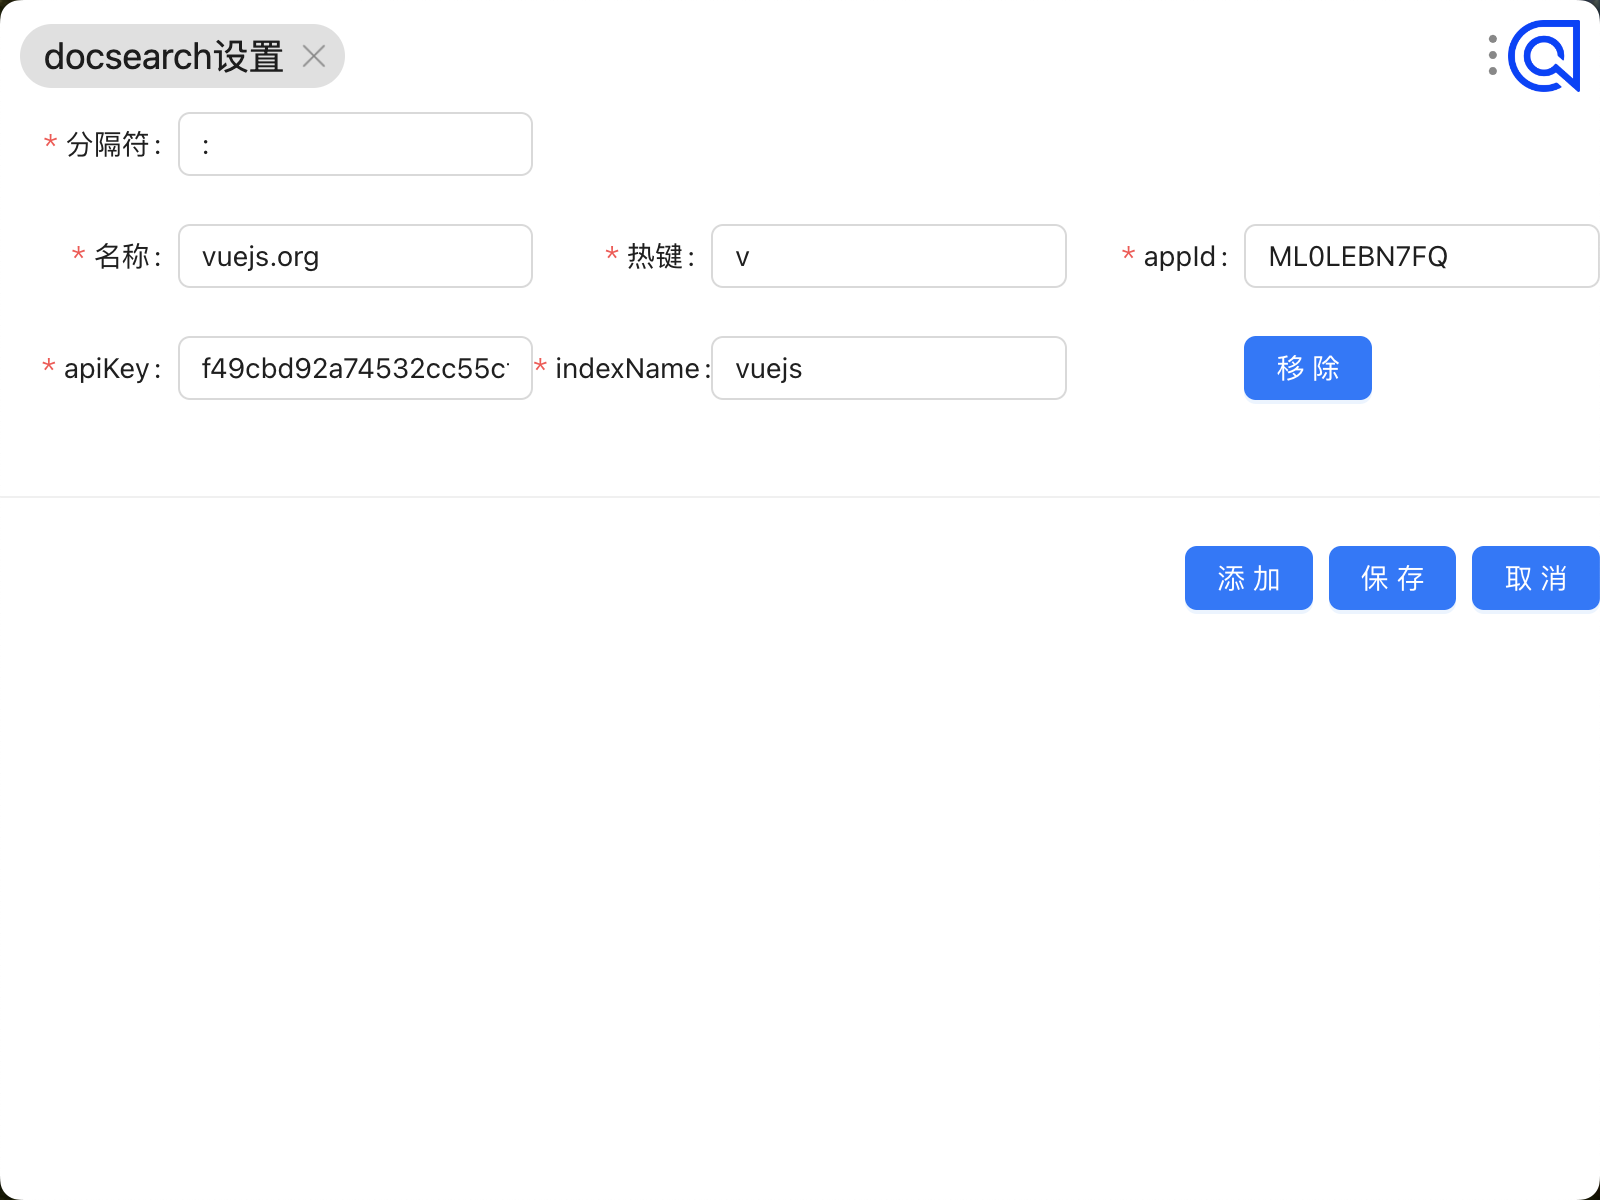
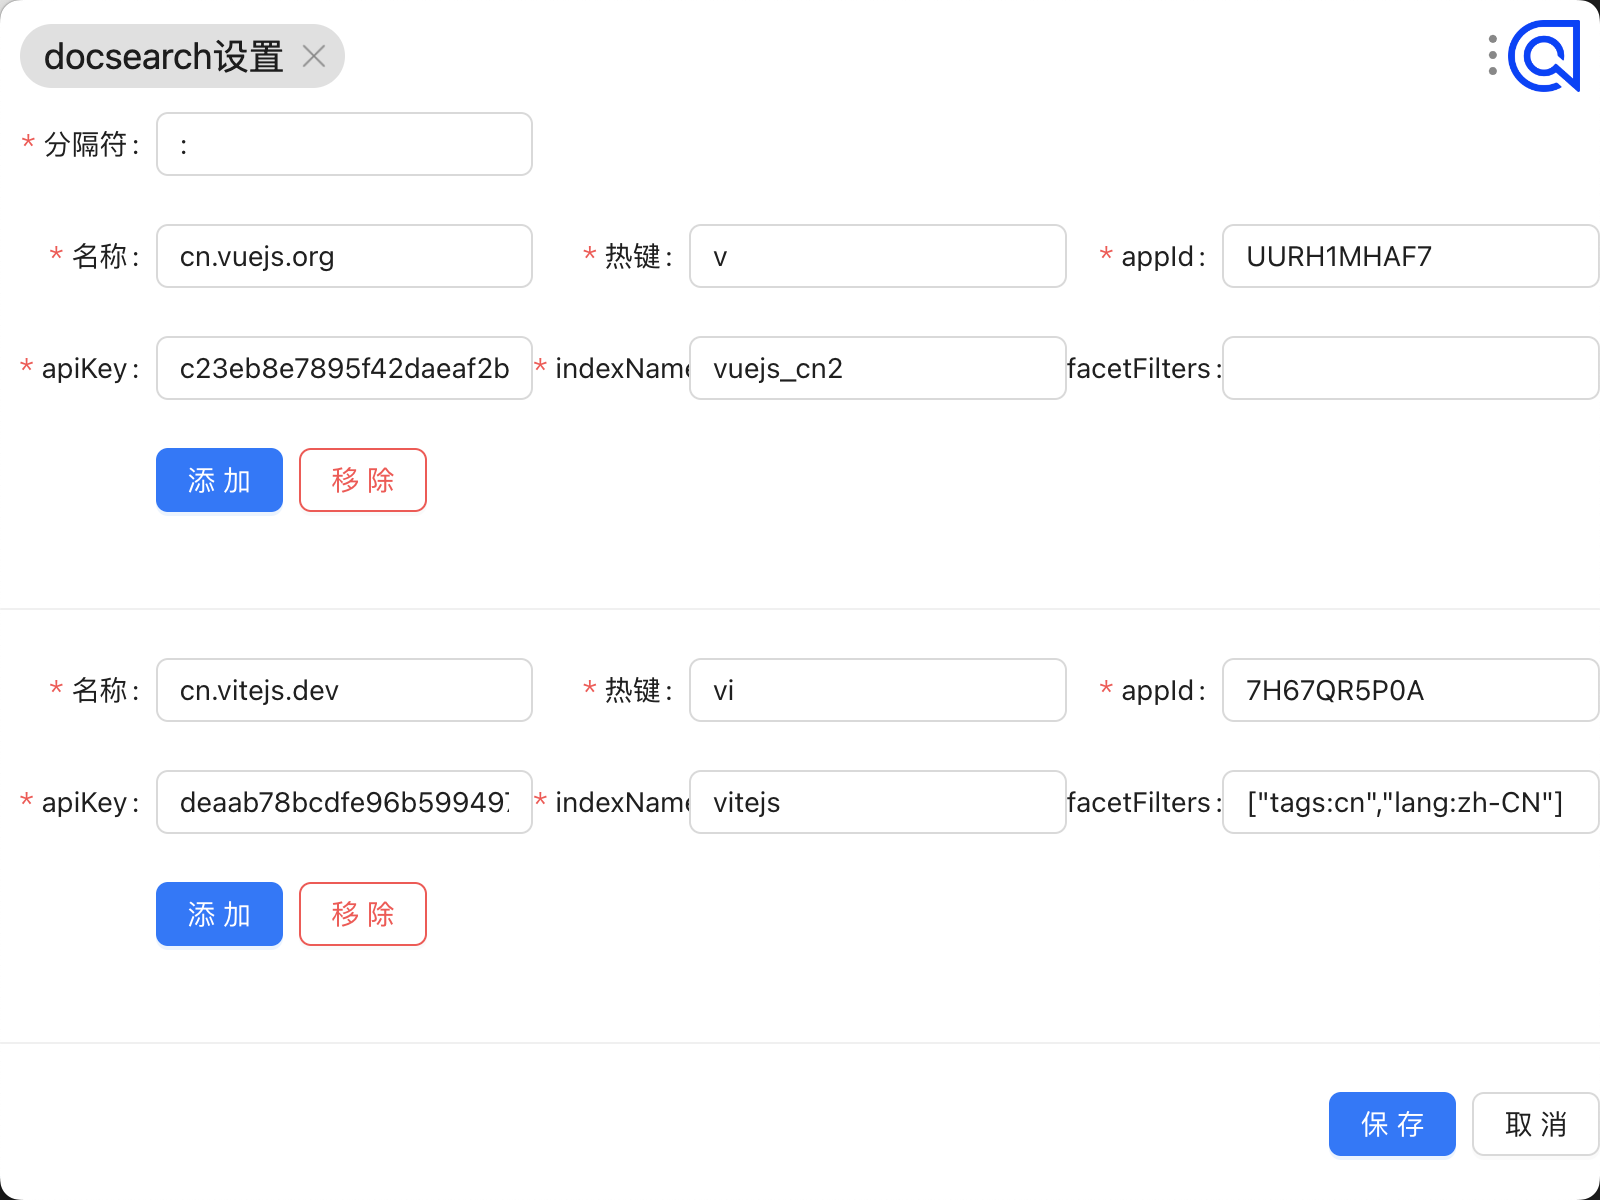
feat: 增加faceFilter功能

diff --git a/src/Setting.js b/src/Setting.js
@@ -3,6 +3,7 @@
 import { Input, Form, Button, Col, Row, Divider, Space, Tooltip, message } from 'antd';
 import { useState, useEffect, } from 'react';
 const text = '唤起搜索的关键词，如热键配置【v】分隔符【:】则utools输入【v:】唤起搜索';
+const faceFilterTooptip = 'docsearch的facetFilters参数，JSON格式，如：["tags:cn","lang:zh-CN"]';
 
 function Setting() {
 
@@ -25,6 +26,17 @@ function Setting() {
 
   const rules = [{ required: true, }];
 
+  const faceFiltersRule = [{
+    required: false, validator(rule, value) {
+      try {
+        JSON.parse(value)
+      } catch (error) {
+        return Promise.reject('JSON格式错误')
+      }
+      return Promise.resolve()
+    }
+  }];
+
   const validateMessages = {
     // eslint-disable-next-line no-template-curly-in-string
     required: '${label}必填!',
@@ -46,6 +58,9 @@ function Setting() {
 
   const addConfig = () => {
     const newConfig = form.getFieldsValue();
+    if (!newConfig.configList) {
+      newConfig.configList = []
+    }
     newConfig.configList.push({
       id: new Date().valueOf(),
       title: '',
@@ -53,6 +68,7 @@ function Setting() {
       appId: '',
       indexName: '',
       apiKey: '',
+      searchParameters: "",
       disabled: false,
     });
 
@@ -73,8 +89,8 @@ function Setting() {
     <Form
       name="basic"
       autoComplete="off"
-      labelCol={{ span: 8 }}
-      wrapperCol={{ span: 16 }}
+      labelCol={{ span: 7 }}
+      wrapperCol={{ span: 17 }}
       onFinish={onFinish}
       style={{ maxWidth: 1200 }}
       initialValues={config}
@@ -91,6 +107,7 @@ function Setting() {
             </Form.Item>
           </Tooltip>
         </Col>
+
       </Row>
       {
         config.configList.map((e, index) => {
@@ -129,9 +146,21 @@ function Setting() {
                 </Col>
 
                 <Col span={8}>
+                  <Form.Item label={
+                    <Tooltip placement="bottom" title={faceFilterTooptip}>
+                      facetFilters
+                    </Tooltip>
+                  } rules={faceFiltersRule} name={['configList', index, 'facetFilters']}>
+                    <Input laceholder='facetFilters' />
+                  </Form.Item>
+                </Col>
+                <Col span={8}>
                   <Form.Item label=' ' colon={false}>
                     <Space>
-                      <Button type="primary" onClick={() => { removeConfig(index) }}>
+                      <Button type="primary" onClick={addConfig}>
+                        添加
+                      </Button>
+                      <Button danger onClick={() => { removeConfig(index) }}>
                         移除
                       </Button>
                     </Space>
@@ -145,13 +174,10 @@ function Setting() {
       }
       <Row justify="end">
         <Space>
-          <Button type="primary" onClick={addConfig}>
-            添加
-          </Button>
           <Button type="primary" htmlType="submit">
             保存
           </Button>
-          <Button type="primary" onClick={cancalConfig}>
+          <Button onClick={cancalConfig}>
             取消
           </Button>
         </Space>

diff --git a/preload.js b/preload.js
@@ -1,15 +1,26 @@
 /* eslint-disable no-undef */
-
+const version = '1.0.1';
 const applyConfig = () => {
   const defaultSplitChar = ":"
   const defaultConfigList = [
     {
       id: "vue",
       hotKey: 'v',
-      title: 'vuejs.org',
-      appId: "ML0LEBN7FQ",
-      indexName: 'vuejs',
-      apiKey: 'f49cbd92a74532cc55cfbffa5e5a7d01',
+      title: 'cn.vuejs.org',
+      appId: "UURH1MHAF7",
+      indexName: 'vuejs_cn2',
+      apiKey: 'c23eb8e7895f42daeaf2bf6f63eb4bf6',
+      facetFilters: "",
+      disabled: false,
+    },
+    {
+      id: "vite",
+      hotKey: 'vi',
+      title: 'cn.vitejs.dev',
+      appId: "7H67QR5P0A",
+      indexName: 'vitejs',
+      apiKey: 'deaab78bcdfe96b599497d25acc6460e',
+      facetFilters: '["tags:cn","lang:zh-CN"]',
       disabled: false,
     }
   ];
@@ -25,9 +36,9 @@ const applyConfig = () => {
     utools.db.put({
       _id: 'config',
       data: {
+        version: version,
         configList: configList,
         split: split,
-        language: 'zh'
       }
     });
   } else {

diff --git a/src/Search.js b/src/Search.js
@@ -18,15 +18,24 @@ function Search() {
   let appId = '';
   let indexName = '';
   let apiKey = '';
+  let facetFilters = [];
   const config = utools.db.get('config');
   const current = config?.data?.configList.find(e => e.hotKey === hotKey);
   if (current) {
     appId = current.appId;
     indexName = current.indexName;
     apiKey = current.apiKey;
+    if (current.facetFilters) {
+      try {
+        facetFilters = JSON.parse(current.facetFilters)
+      } catch (error) {
+
+      }
+    }
   } else {
     return <div>未找到配置</div>
   }
+
 
 
   return (
@@ -38,7 +47,7 @@ function Search() {
         apiKey={apiKey}
         initialQuery={query}
         searchParameters={{
-          // facetFilters: [`language:${language}`],
+          facetFilters: facetFilters,
         }}
         navigator={{
           navigate: navigateWindow

diff --git a/readme.md b/readme.md
@@ -6,7 +6,8 @@
 2. 支持自定义配置网站信息
 3. 支持初始化关键词，搜索更快一步
 4. 界面样式和官方保持一致，使用回车键打开新的浏览器窗口
-4. 在utools的自带浏览器窗口打开搜索结果
+5. 在utools的自带浏览器窗口打开搜索结果
+6. 增加自定义docsearch的facetFilters参数,允许添加过滤参数
 
 ## 配置说明
 1. 鉴别官网文档是否支持docseach，一般搜索框弹窗有[algolia]支持的都可以 ![imgs/鉴别](imgs/鉴别.png)
@@ -14,7 +15,7 @@
 3. 打开搜索框，随意搜索内容,抓包到网络请求 ![获取配置](imgs/获取配置id.jpg)
 4. utools 搜索docsearch设置
 5. 唤起搜索的关键词，如热键配置【v】分隔符【:】则utools输入【v:computed】唤起搜索,docsearch 搜索相关关键词
-
+6. 某些网站中文版和英文站的appId是不一样的，需要区分，有些则需要更具faceFilters过滤
 
 名称 nnnnzs.cn
 
